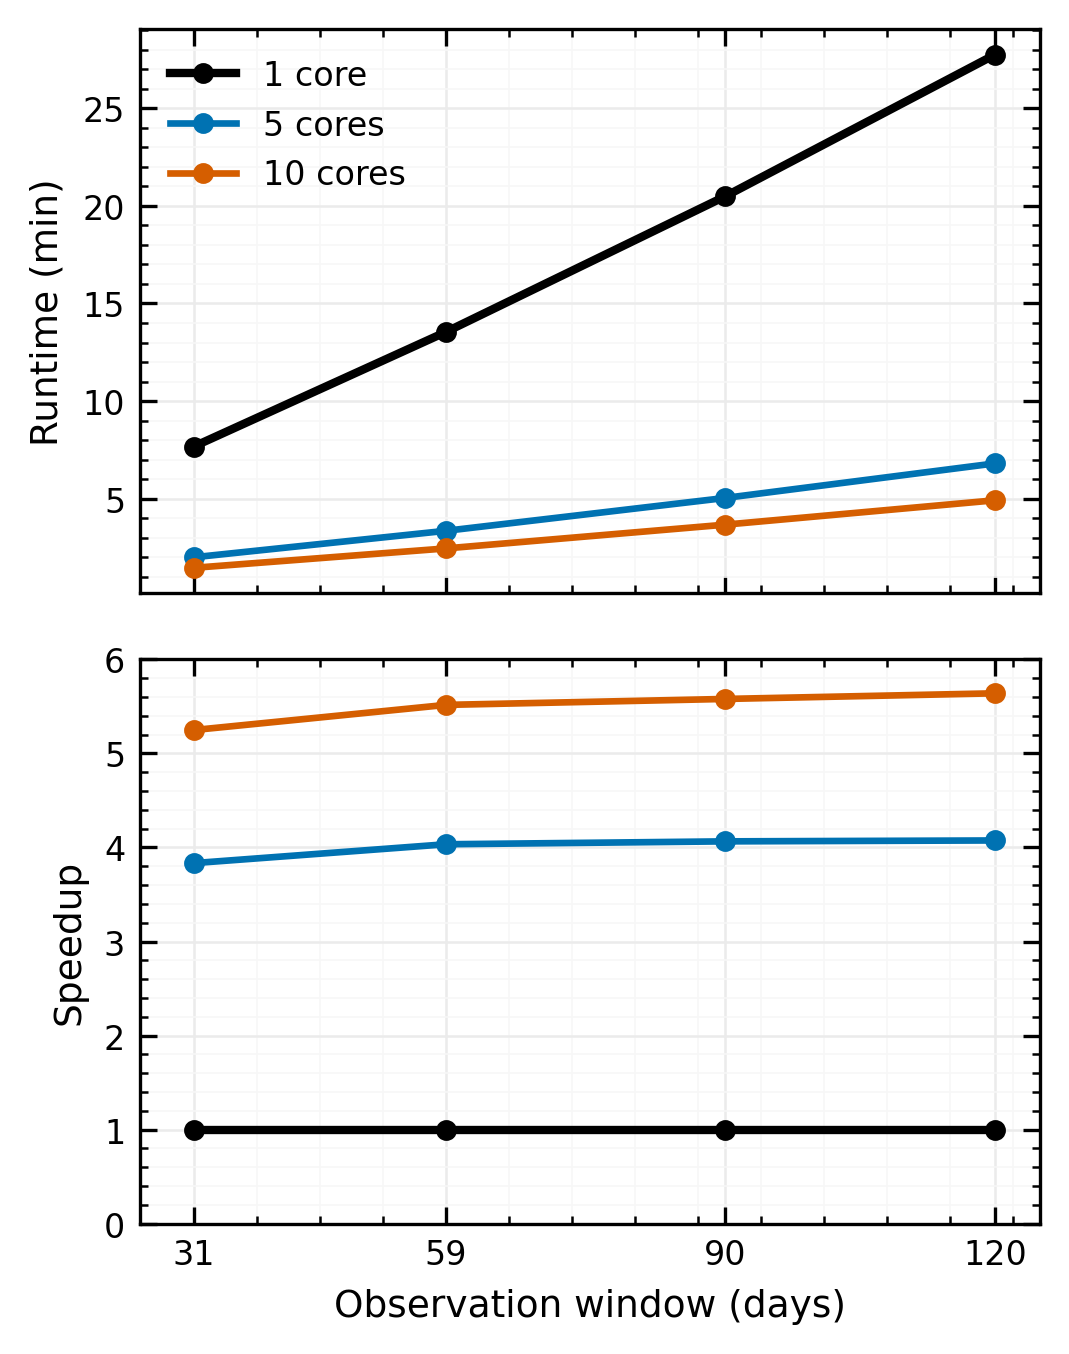
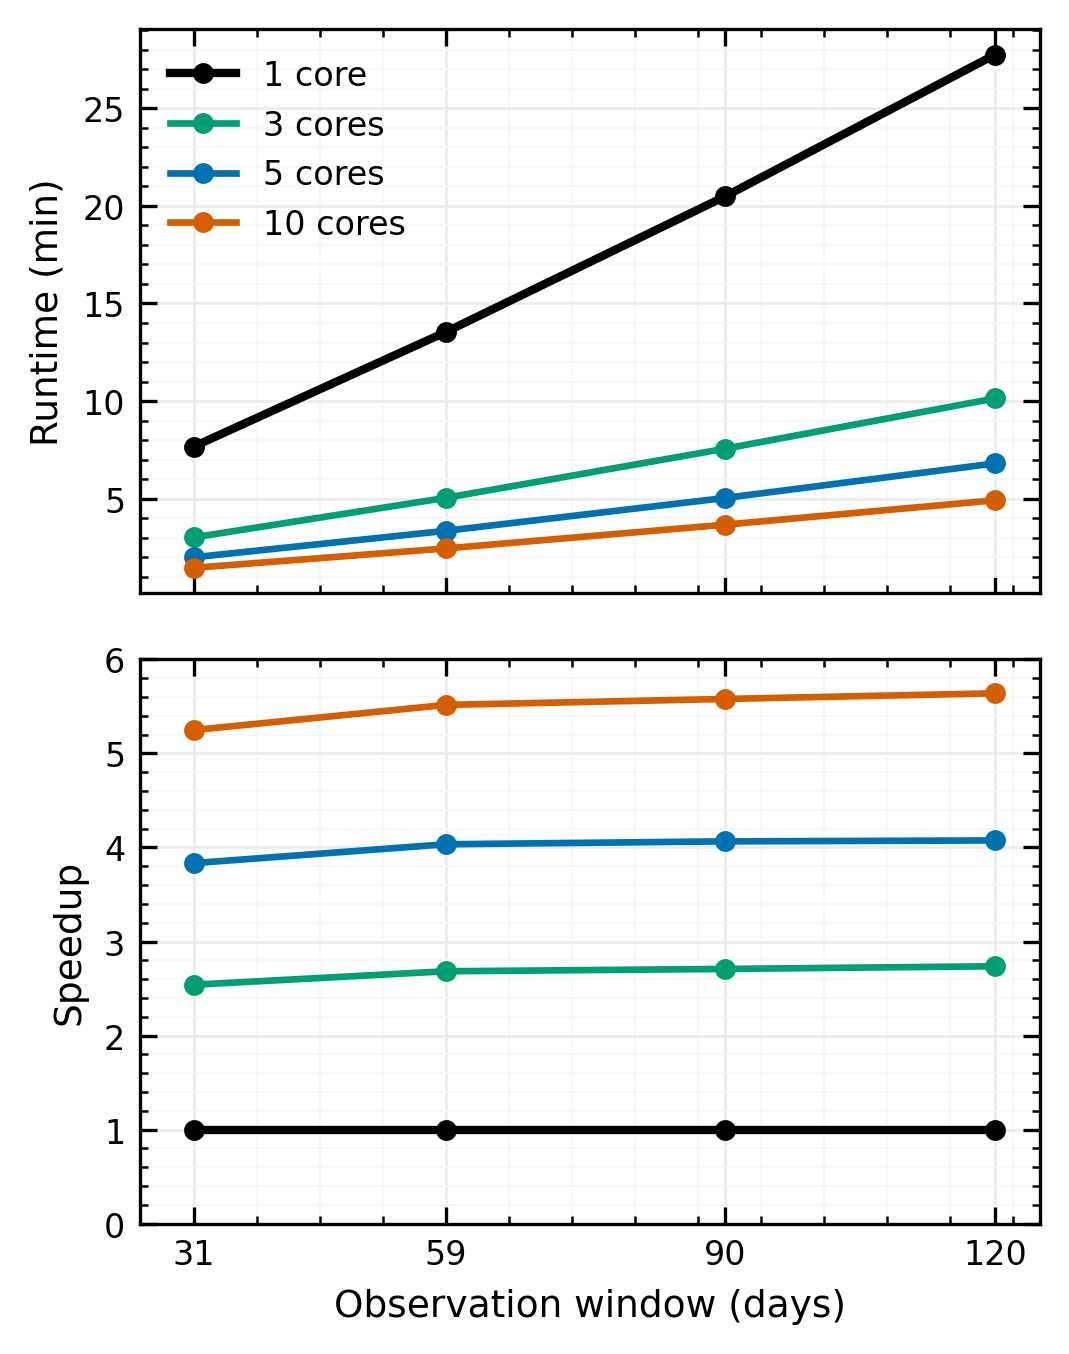
Update to 2.0.0b8
- Suppressed Astropy IERS 50-year maen warning
- Fixed configuation defaults

diff --git a/preface/configs.py b/preface/configs.py
@@ -177,7 +177,7 @@ class OutputConfigurations:
         observation_end: datetime,
         output_folder: str | Path,
         metric_mode="Rank",
-        viable_cumulative_cut=0.90,
+        viable_cumulative_cut=0.97,
         toggle_graph_outputs=True,
         event_weight_graph_threshold=0.75,
     ):
@@ -197,7 +197,7 @@ class OutputConfigurations:
             Ranking metric used for event prioritization.
             Must be one of ``"Rank"``, ``"Habitable_Rank"``,
             ``"Multi_Transit_Rank"``, or ``"Multi_Transit_Habitable_Rank"``.
-        viable_cumulative_cut : float, default=0.90
+        viable_cumulative_cut : float, default=0.97
             Cumulative viability threshold between 0 and 1.
         toggle_graph_outputs : bool, default=True
             Whether diagnostic plots for each transit event should be generated.
@@ -310,7 +310,7 @@ class MoonlightNoiseConfigurations:
         scattering_aod=0.2,
         absorption_aod=0.3,
         asymmetry_factor=0.6,
-        moonlight_amplification_factor=9,
+        moonlight_amplification_factor=10,
     ):
         """
         Initialize and validate moonlight noise model parameters

diff --git a/README.md b/README.md
@@ -1,6 +1,6 @@
 # PREFACE
 
-**P**ipeline for **R**anking **E**xoplanets For **A**tmospheric **C**haract**E**rization (**PREFACE**) is a Python package for selection of promising exoplanet transmission spectroscopy observations based on their expected scientific return and observational feasibility.
+**P**ipeline for **R**anking **E**xoplanets **F**or **A**tmospheric **C**haract**E**rization (**PREFACE**) is a Python package for selection of promising exoplanet transmission spectroscopy observations based on their expected scientific return and observational feasibility.
 
 ---
 

diff --git a/docs/configuration.rst b/docs/configuration.rst
@@ -121,7 +121,7 @@ Defines the observation timing window, output directory, and ranking behaviour.
      - ``float``
      - Fraction of cumulative viability retained.
      - Between ``0`` and ``1`` (``0.90`` to ``0.97`` recommended).
-     - ``0.90``
+     - ``0.97``
    * - ``toggle_graph_outputs``
      - ``bool``
      - Produce diagnostic plots per transit.

diff --git a/docs/index.rst b/docs/index.rst
@@ -1,7 +1,7 @@
 PREFACE Documentation
 =====================
 
-**P**ipeline for **R**anking **E**xoplanets For **A**tmospheric **C**haract**E**rization (**PREFACE**)
+**P**ipeline for **R**anking **E**xoplanets **F**or **A**tmospheric **C**haract**E**rization (**PREFACE**)
 is a Python package containing an end-to-end pipeline for selection of promising exoplanet transmission
 spectroscopy observations based on their expected scientific return and observational feasibility.
 